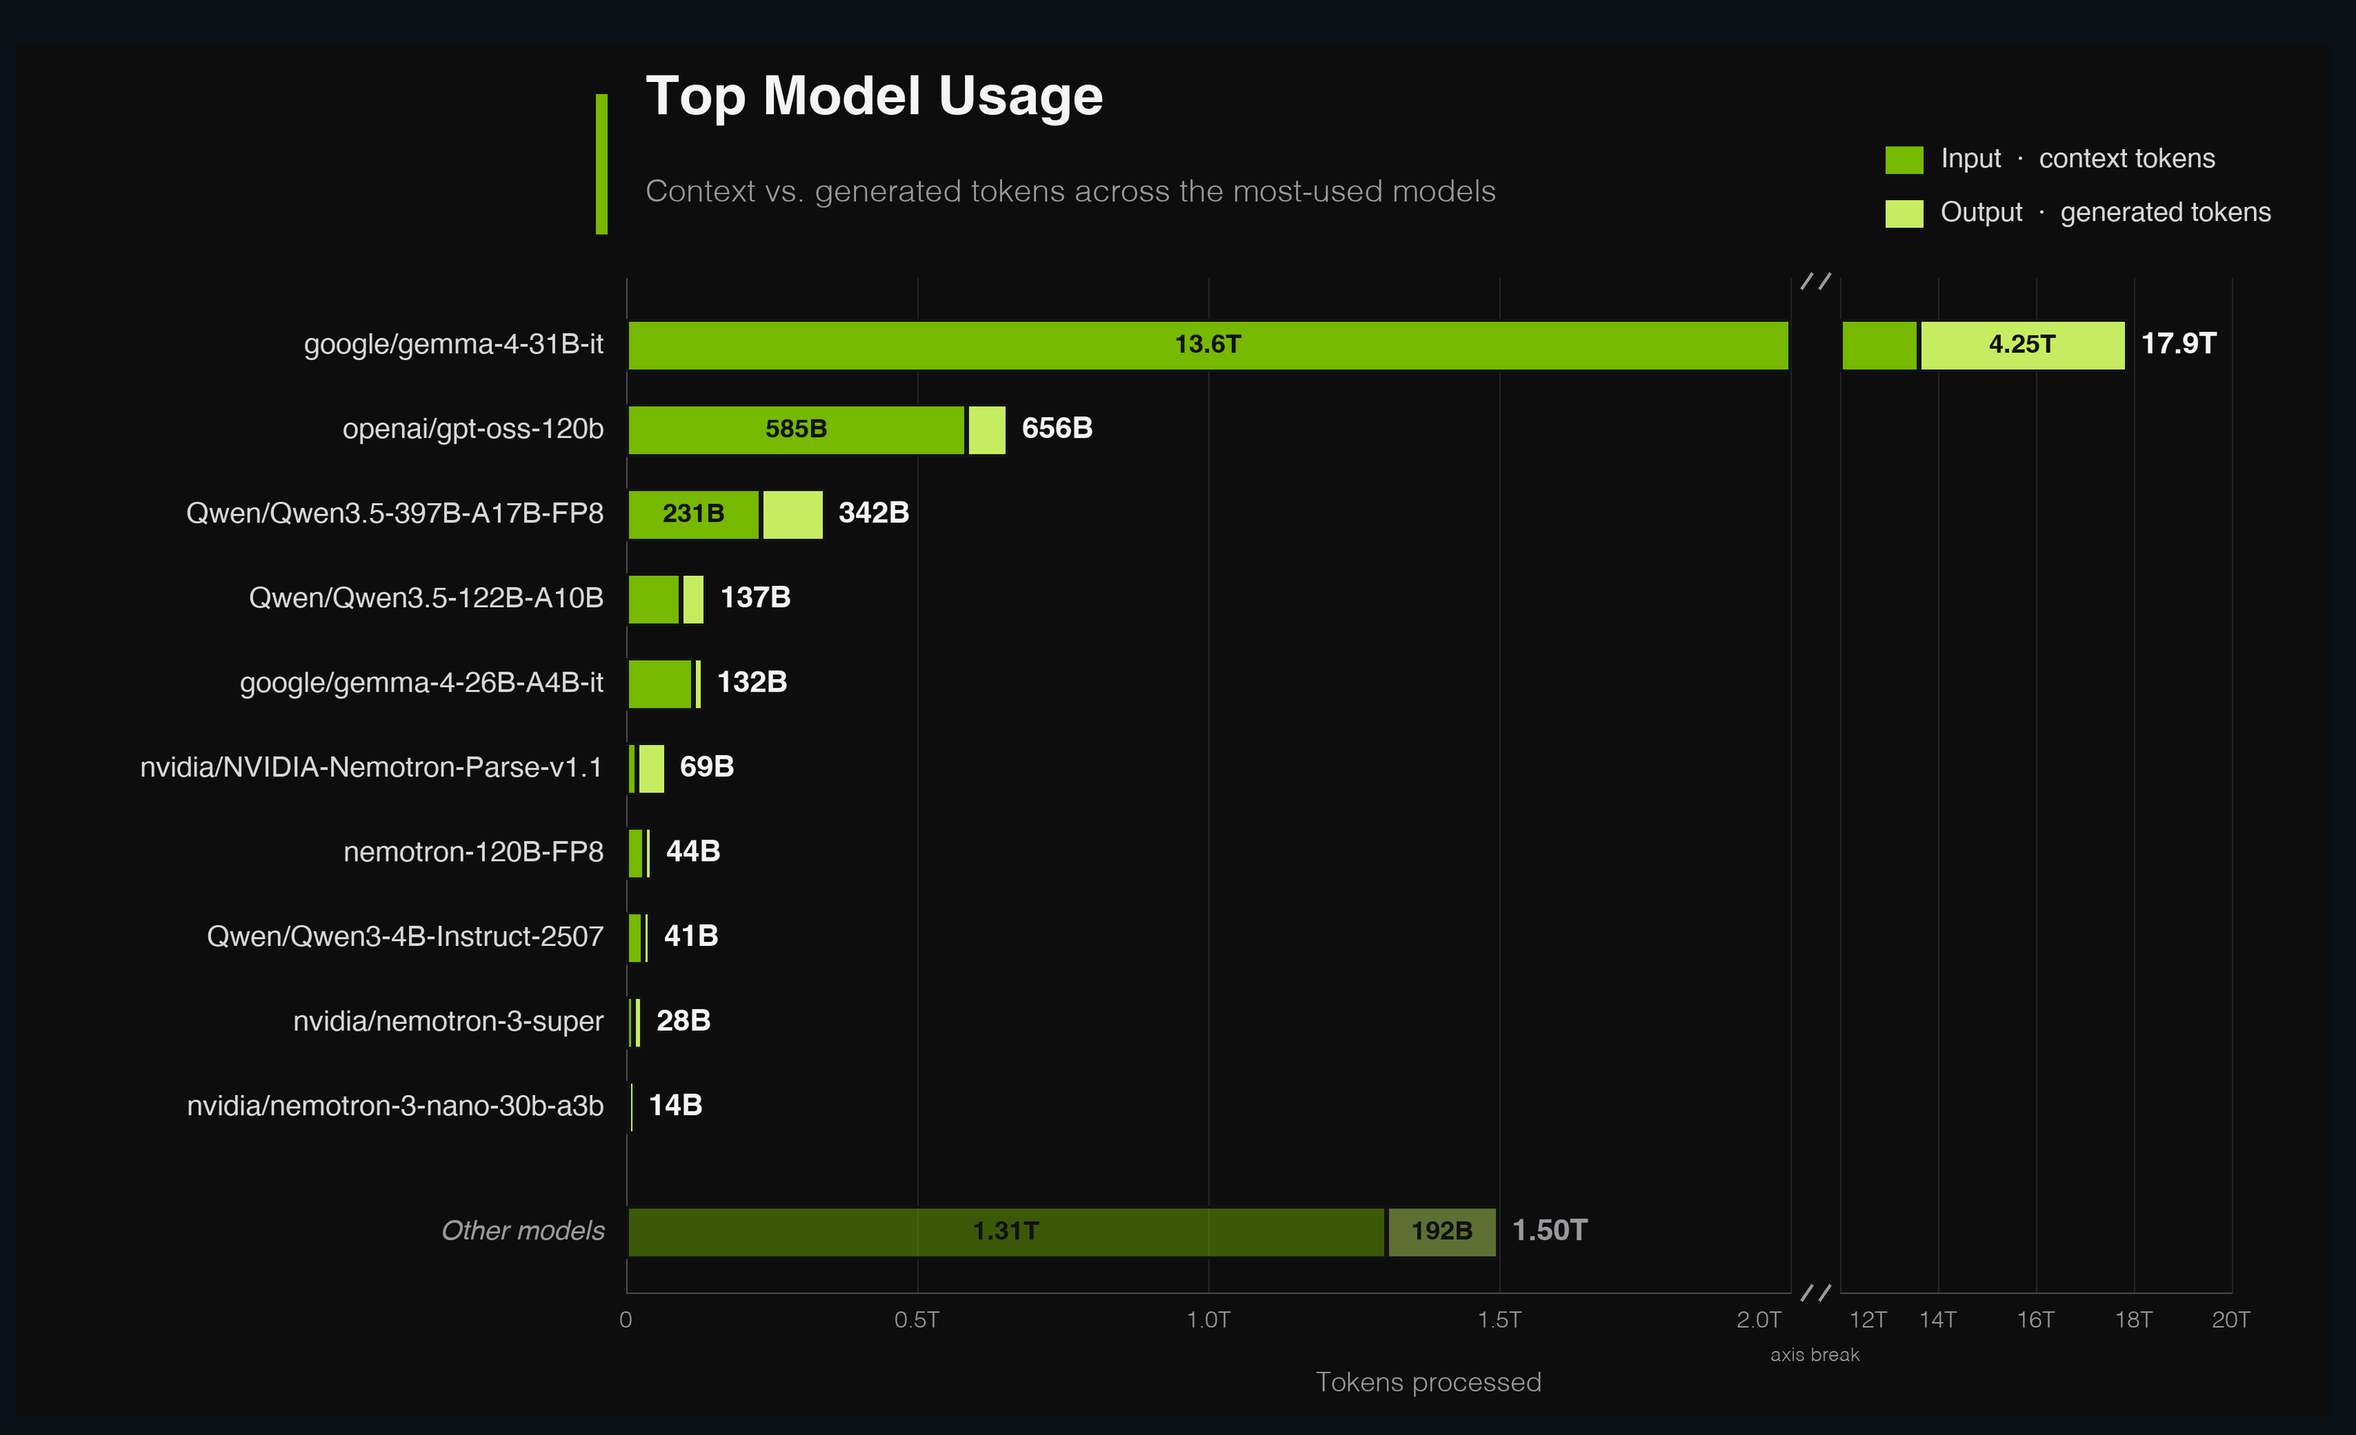
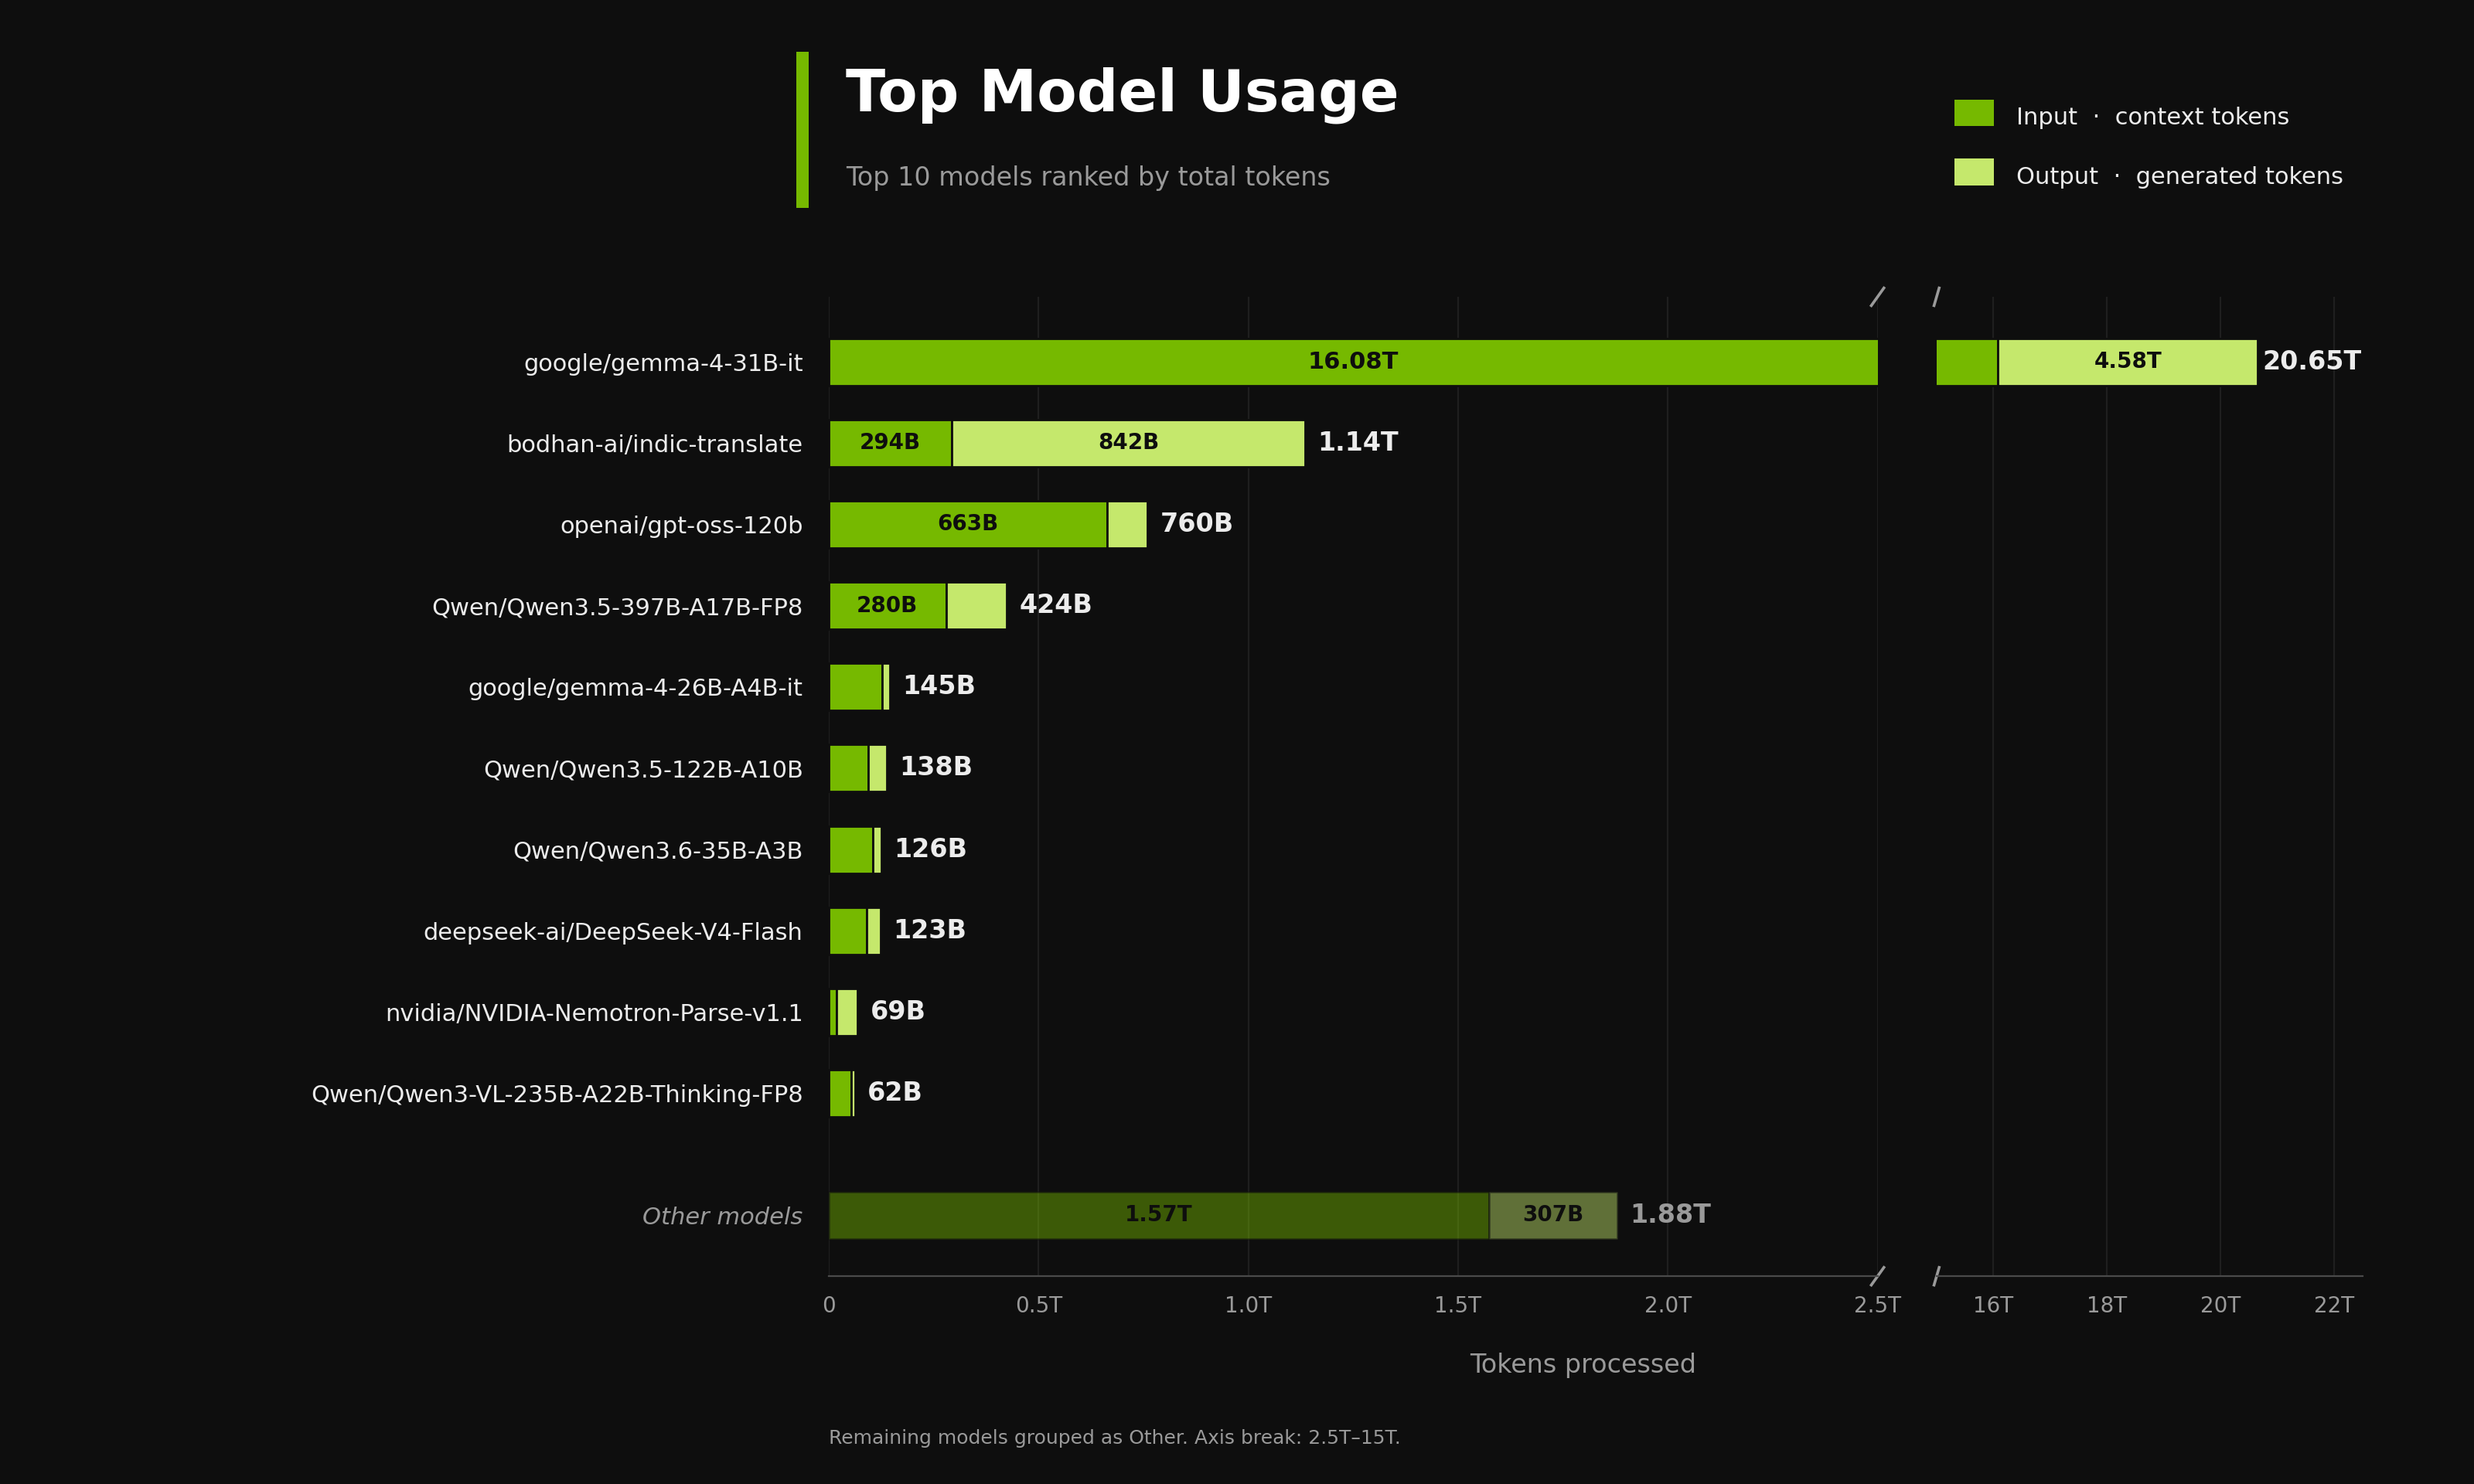
docs: refresh top models YTD chart (#1096)
* docs: refresh top model usage chart

* docs: limit chart refresh to image and README

---------

diff --git a/README.md b/README.md
@@ -181,11 +181,11 @@ Disable with `NEMO_TELEMETRY_ENABLED=false`. **[More details →](#telemetry-and
 
 ### Top models (YTD)
 
-Aggregate model usage across synthetic data generation jobs, year-to-date 1/1/2026–8/4/2026:
+Aggregate model usage across synthetic data generation jobs, year-to-date 1/1/2026–10/27/2026:
 
 ![Top models used for synthetic data generation](fern/images/top-models.png)
 
-_Last updated on August 4, 2026_
+_Last updated on October 27, 2026_
 
 ---
 
